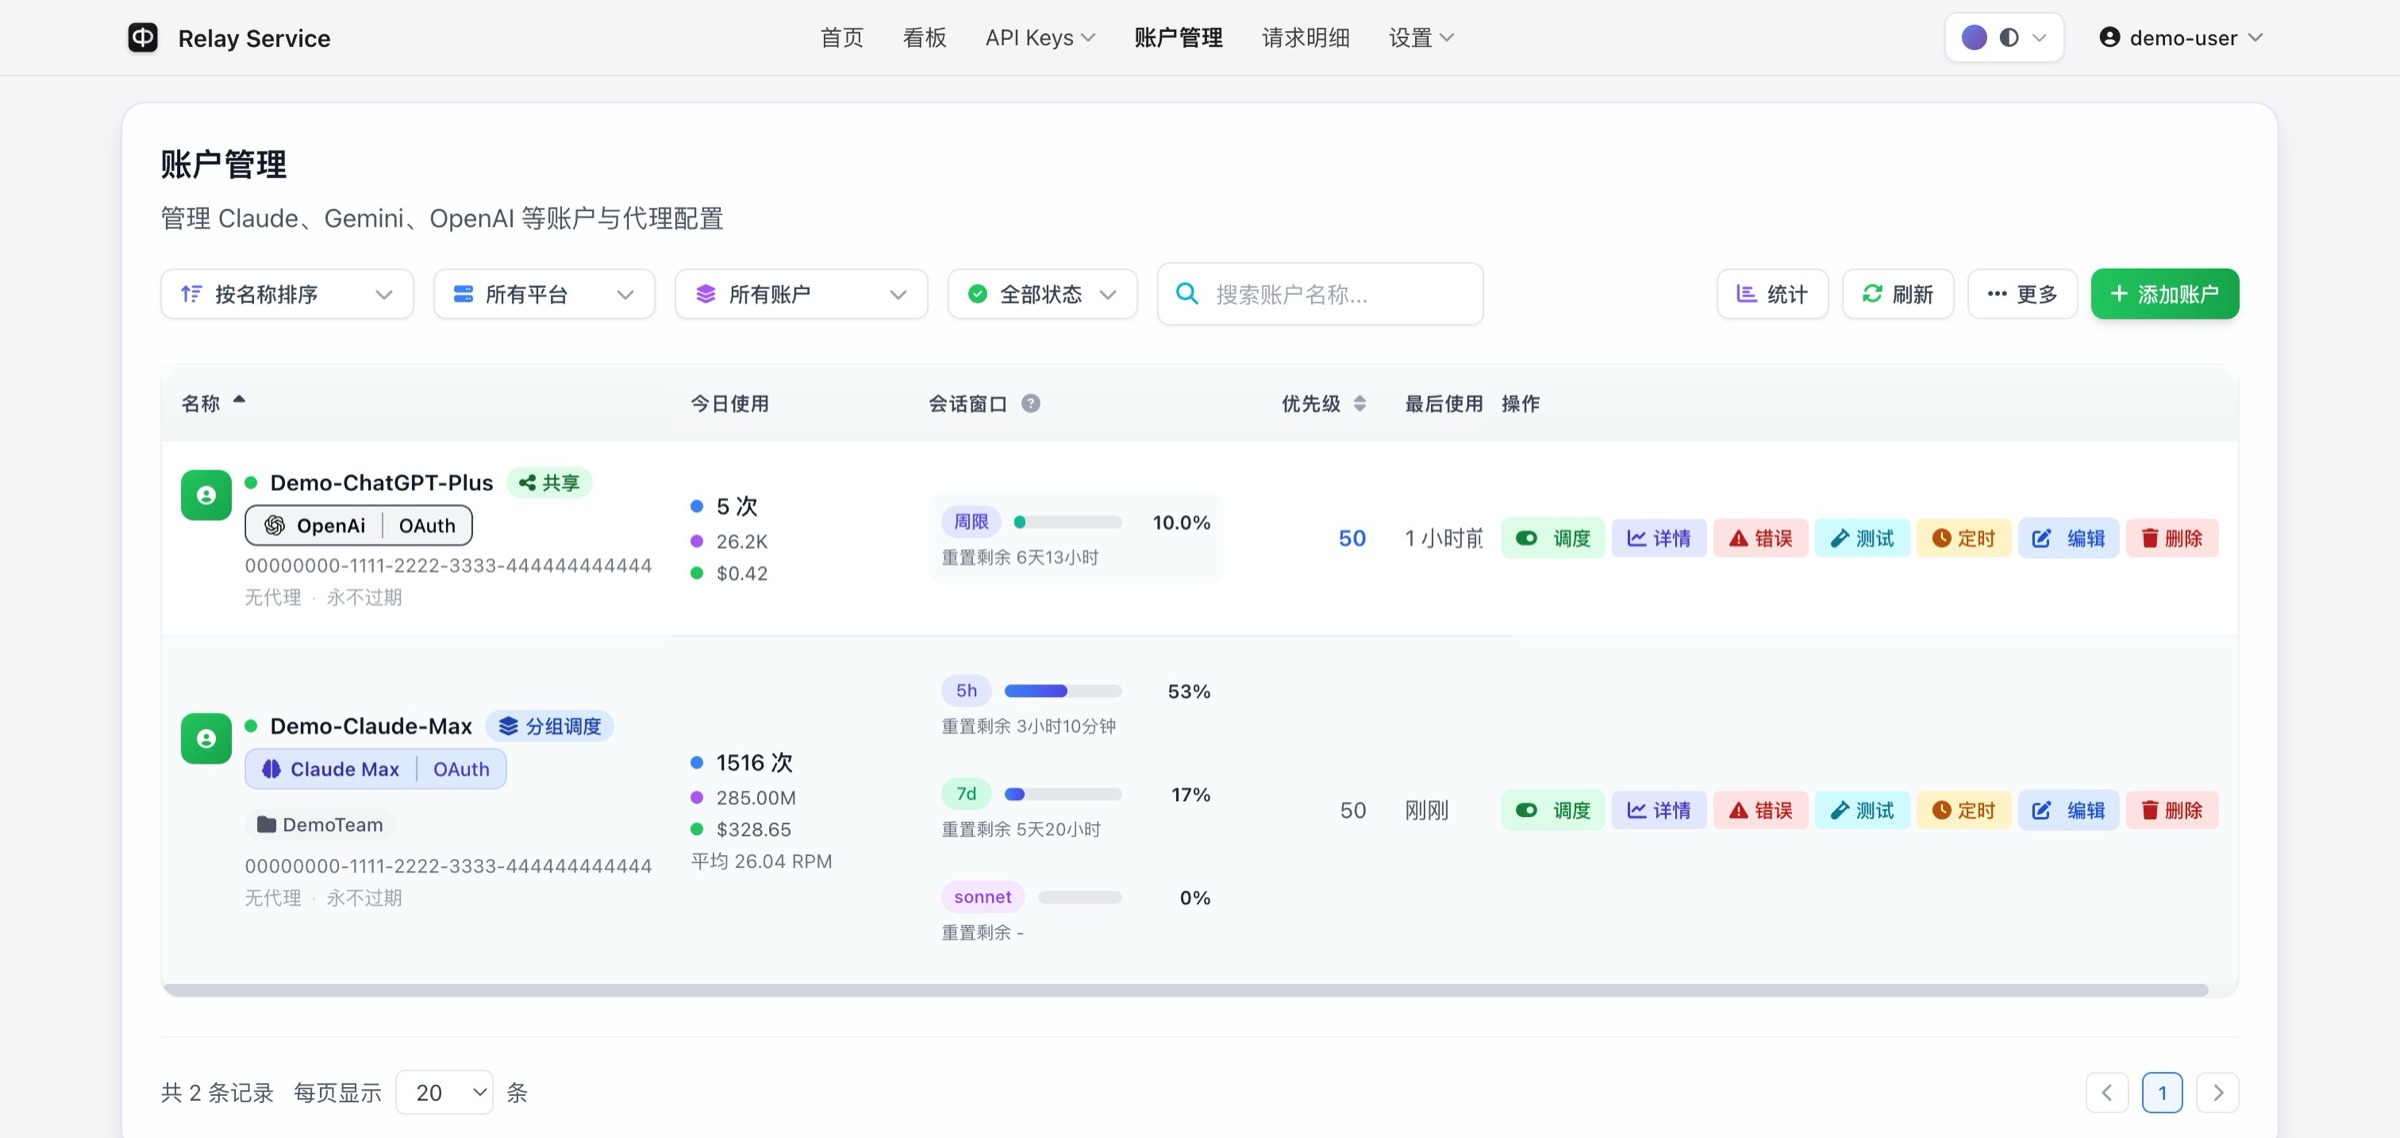
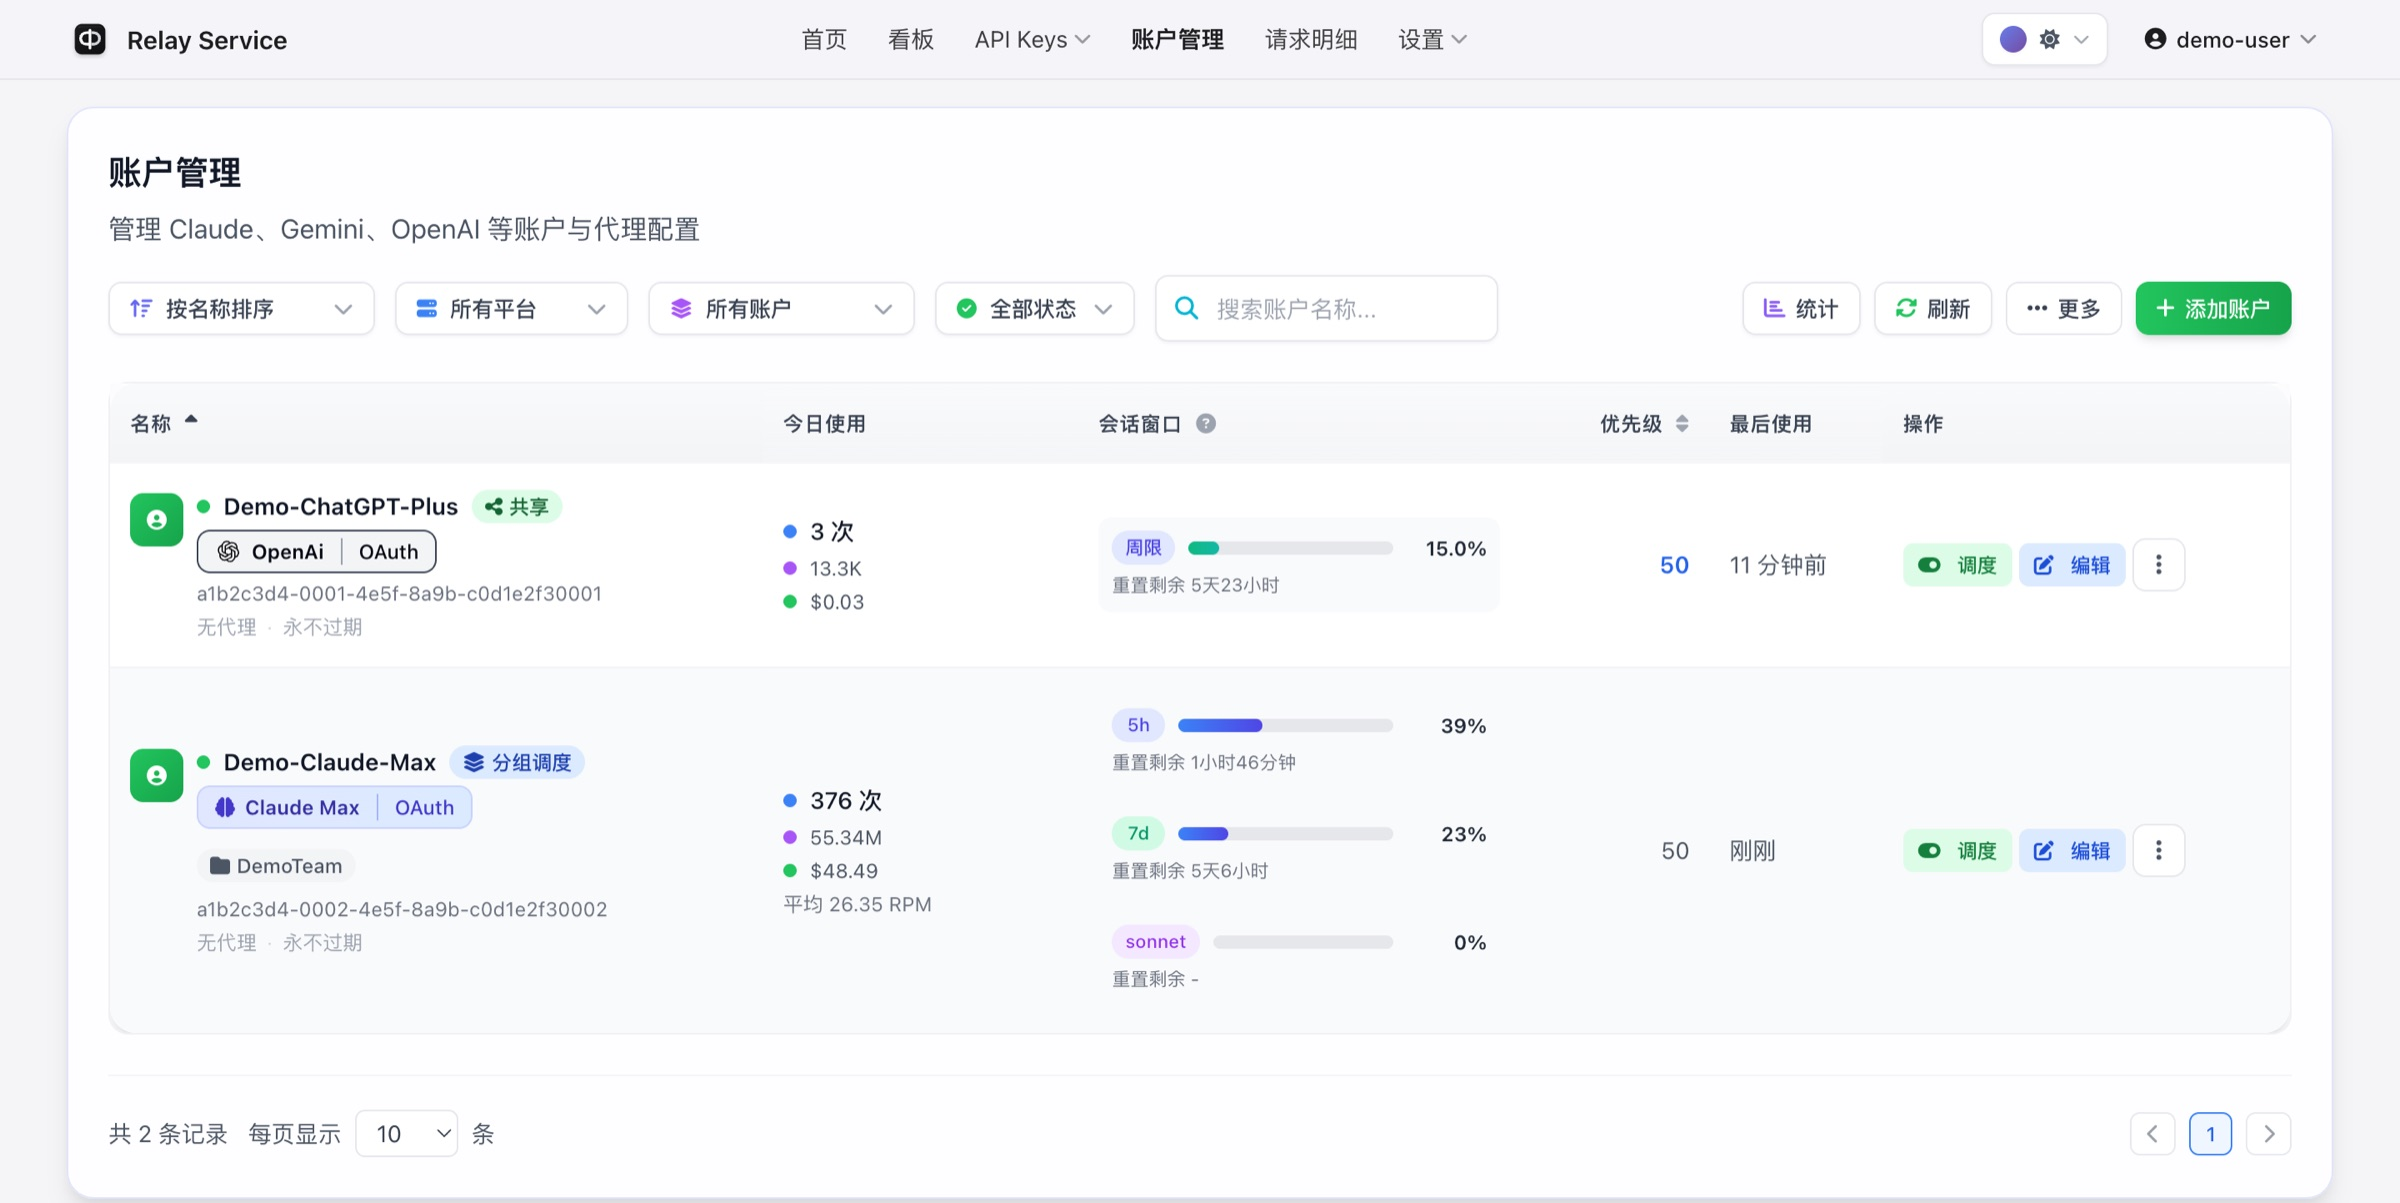
feat(landing): 标题改单行、截图改书夹式展示并重截脱敏图
- 标题「一个简易模型中转服务」→「一个简单的模型网关」，单行无标点
  9 个汉字加 white-space:nowrap，字号下限 36px→clamp(26px,8.4vw,68px)
  （36px 定值 × 9 字 ≈ 324px，窄屏会顶破 nowrap）
- 截图区改为书夹样式：纸套 holder + 金属夹 clip + 夹口 pocket
  静止时 ±1.6° 交替倾斜，悬停扯正 + 上提 30px + 放大 1.075（0.85s 回弹）
  入场动画占 .showcase__shot 的 transform，倾斜占 .showcase__frame，
  两者必须分层，否则 .pop--in{transform:none} 会清掉倾斜
- 截图展示宽度 ~600px → ~735px：列宽 1.35fr→1.9fr，
  并用负 margin 撑出父级 section.features 的 max-width:1100px 限制
- 三张截图重截并脱敏，改为 1440px 视口（低于 Tailwind 2xl=1536 断点），
  操作列呈 ⋮ 收起态，与真实使用形态一致
- 修复脱敏 UUID 塌缩：原先所有 UUID 替换为同一常量，
  导致两个账户显示相同 UUID（现实不可能）；改为一一映射
- 移除写死的 aspect-ratio:3024/1434，改由各图 width/height 属性决定
  （三张比例不同：2400x1666 / 2400x933 / 2400x1203，写死会变形）
- 交错行同时镜像 grid-template-columns，否则图会被挤进窄列
- 窄屏(≤900)取消倾斜与大幅抽出；prefers-reduced-motion 全关；补暗色适配

diff --git a/web/admin-spa/src/views/LandingView.vue b/web/admin-spa/src/views/LandingView.vue
@@ -7,7 +7,7 @@
     <section id="top" class="hero">
       <div class="hero__inner reveal">
         <p class="hero__eyebrow">Relay Service</p>
-        <h1 class="hero__title">一个简易模型中转服务</h1>
+        <h1 class="hero__title">一个简单的模型网关</h1>
         <p class="hero__sub">
           统一调度 Claude、Gemini、OpenAI、Bedrock、Azure 与更多平台。<br />
           为个人打造的全方面、可观测的 AI API 中转。
@@ -303,21 +303,28 @@
             <li v-for="p in s.points" :key="p">{{ p }}</li>
           </ul>
         </div>
-        <figure class="showcase__frame pop pop--late">
-          <div class="showcase__bar">
-            <span class="showcase__dot showcase__dot--r" />
-            <span class="showcase__dot showcase__dot--y" />
-            <span class="showcase__dot showcase__dot--g" />
-            <span class="showcase__crumb">{{ s.label }}</span>
+        <figure class="showcase__shot pop pop--late" tabindex="0">
+          <div class="showcase__holder">
+            <span aria-hidden="true" class="showcase__clip" />
+            <div class="showcase__frame">
+              <div class="showcase__bar">
+                <span class="showcase__dot showcase__dot--r" />
+                <span class="showcase__dot showcase__dot--y" />
+                <span class="showcase__dot showcase__dot--g" />
+                <span class="showcase__crumb">{{ s.label }}</span>
+              </div>
+              <img
+                :alt="s.alt"
+                class="showcase__img"
+                decoding="async"
+                :height="s.h"
+                loading="lazy"
+                :src="s.src"
+                :width="s.w"
+              />
+            </div>
+            <span aria-hidden="true" class="showcase__pocket" />
           </div>
-          <img
-            :alt="s.alt"
-            class="showcase__img"
-            decoding="async"
-            height="1434"
-            :src="s.src"
-            width="3024"
-          />
         </figure>
       </div>
 
@@ -365,6 +372,8 @@ const shots = [
     title: '毫秒级使用统计',
     label: '看板',
     src: 'screenshots/dashboard.jpg',
+    w: 2400,
+    h: 1666,
     alt: 'Relay Service 看板：请求量、Token 用量、实时吞吐与模型分布',
     desc: '流式响应中实时捕获 Token 使用与成本，仪表盘秒级刷新。',
     points: [
@@ -379,6 +388,8 @@ const shots = [
     title: '每把 Key 都算得清',
     label: 'API Keys',
     src: 'screenshots/api-keys.jpg',
+    w: 2400,
+    h: 933,
     alt: 'Relay Service API Key 管理：费用、Token、请求数与最后使用时间',
     desc: '给每个人发独立 Key，费用、用量与最后使用时间逐条入账。',
     points: [
@@ -393,6 +404,8 @@ const shots = [
     title: '多平台账户统一编排',
     label: '账户管理',
     src: 'screenshots/accounts.jpg',
+    w: 2400,
+    h: 1203,
     alt: 'Relay Service 账户管理：多平台账户、会话窗口与调度优先级',
     desc: 'Claude、Gemini、OpenAI 等账户集中管理，会话窗口一目了然。',
     points: ['多平台账户与分组调度', '会话窗口剩余量实时可见', '优先级与代理逐账户配置']
@@ -487,7 +500,10 @@ onBeforeUnmount(() => {
   margin-bottom: 8px;
 }
 .hero__title {
-  font-size: clamp(36px, 5.2vw, 68px);
+  /* 单行 9 个汉字：nowrap 兜底；下限改成随视口缩放，
+     原 36px 定值 x 9 字 ≈ 324px，在窄屏会顶破 nowrap */
+  white-space: nowrap;
+  font-size: clamp(26px, 8.4vw, 68px);
   line-height: 1.1;
   font-weight: 700;
   letter-spacing: -0.035em;
@@ -913,16 +929,29 @@ onBeforeUnmount(() => {
 
 /* ---------- Showcase：截图跟随功能 ---------- */
 .showcase {
-  max-width: 1180px;
-  margin: 96px auto 0;
+  position: relative;
+  /* 本区块在 section.features 内，父级 max-width:1100px。
+     feat 卡片依赖那个宽度不能动，故用负 margin 撑出父容器，
+     再用自己的 max-width 收口，让截图拿到更大展示宽度。 */
+  max-width: 1280px;
+  width: calc(100vw - 44px);
+  margin: 104px calc((1100px - 100vw + 44px) / 2) 0;
   padding: 0 22px;
   display: grid;
-  grid-template-columns: minmax(280px, 1fr) minmax(0, 1.35fr);
+  grid-template-columns: minmax(260px, 1fr) minmax(0, 1.9fr);
   align-items: center;
-  gap: 56px;
+  gap: 52px;
+}
+/* 交错行列宽不对称（窄 | 宽），只给文字 order:2 会把图挤进窄列，
+   必须同时把列宽镜像翻转，图才始终占宽列 */
+.showcase--alt {
+  grid-template-columns: minmax(0, 1.9fr) minmax(260px, 1fr);
 }
 .showcase--alt .showcase__text {
   order: 2;
+}
+.showcase:hover {
+  z-index: 6;
 }
 .showcase__tag {
   display: inline-block;
@@ -968,13 +997,125 @@ onBeforeUnmount(() => {
   border-radius: 50%;
   background: #0071e3;
 }
-.showcase__frame {
+/* ---------- 书夹：holder(纸套) + clip(金属夹) + pocket(夹口) ----------
+   分层原则：入场动画 .pop 占用 .showcase__shot 的 transform；
+   倾斜与悬停占用 .showcase__frame 的 transform。两者必须在不同元素上，
+   否则 .pop--in{transform:none} 会把倾斜一并清掉。 */
+.showcase__shot {
+  position: relative;
   margin: 0;
-  border-radius: 16px;
+  outline: none;
+}
+.showcase__shot:focus-visible {
+  outline: 2px solid #0071e3;
+  outline-offset: 6px;
+  border-radius: 24px;
+}
+.showcase__holder {
+  position: relative;
+  padding: 26px 18px 30px;
+  border-radius: 20px;
+  background: linear-gradient(168deg, #fdfdfe 0%, #f6f7f9 58%, #f1f2f6 100%);
+  border: 1px solid rgba(0, 0, 0, 0.055);
+  box-shadow:
+    inset 0 1px 0 rgba(255, 255, 255, 0.9),
+    0 1px 2px rgba(0, 0, 0, 0.03),
+    0 22px 48px -34px rgba(0, 0, 0, 0.32);
+}
+.showcase__clip {
+  position: absolute;
+  top: -11px;
+  left: 50%;
+  margin-left: -58px;
+  width: 116px;
+  height: 22px;
+  z-index: 4;
+  border-radius: 6px;
+  background: linear-gradient(#fcfcfd 0%, #e4e7ec 44%, #c8ccd6 56%, #e9ebf0 100%);
+  box-shadow:
+    0 0 0 1px rgba(0, 0, 0, 0.1),
+    inset 0 1px 0 rgba(255, 255, 255, 0.95),
+    inset 0 -1px 0 rgba(0, 0, 0, 0.06),
+    0 6px 14px -5px rgba(0, 0, 0, 0.34);
+  transition:
+    transform 0.32s cubic-bezier(0.16, 1, 0.3, 1),
+    box-shadow 0.32s cubic-bezier(0.16, 1, 0.3, 1);
+}
+/* 中缝：1px 暗线 + 下方 1px 亮线，制造金属折边错觉 */
+.showcase__clip::before {
+  content: '';
+  position: absolute;
+  left: 11px;
+  right: 11px;
+  top: 10px;
+  height: 1px;
+  background: rgba(0, 0, 0, 0.13);
+  box-shadow: 0 1px 0 rgba(255, 255, 255, 0.8);
+}
+/* 夹下沿投影，让夹像「压在纸上」而非贴上去 */
+.showcase__clip::after {
+  content: '';
+  position: absolute;
+  left: 5px;
+  right: 5px;
+  bottom: -6px;
+  height: 6px;
+  border-radius: 50%;
+  background: rgba(0, 0, 0, 0.13);
+  filter: blur(3.5px);
+}
+/* 夹口：z-index 高于截图，才看得出「插在里面」 */
+.showcase__pocket {
+  position: absolute;
+  left: 0;
+  right: 0;
+  bottom: 0;
+  height: 34px;
+  z-index: 3;
+  border-radius: 0 0 20px 20px;
+  pointer-events: none;
+  background: linear-gradient(#f4f5f8, #e8eaf0);
+  border-top: 1px solid rgba(0, 0, 0, 0.05);
+  box-shadow:
+    inset 0 1px 0 rgba(255, 255, 255, 0.85),
+    inset 0 6px 10px -8px rgba(0, 0, 0, 0.16);
+}
+/* 阴影拆「近接触影 + 远漫射影」两层，比单层大模糊干净 */
+.showcase__frame {
+  position: relative;
+  z-index: 2;
+  margin: 0;
+  border-radius: 12px;
   overflow: hidden;
   background: #fff;
-  border: 1px solid rgba(0, 0, 0, 0.08);
-  box-shadow: 0 30px 60px -25px rgba(0, 0, 0, 0.3);
+  border: 1px solid rgba(0, 0, 0, 0.07);
+  box-shadow:
+    0 2px 4px -2px rgba(0, 0, 0, 0.1),
+    0 20px 40px -24px rgba(0, 0, 0, 0.3);
+  transform: rotate(-1.6deg);
+  transition:
+    transform 0.85s cubic-bezier(0.34, 1.56, 0.64, 1),
+    box-shadow 0.85s cubic-bezier(0.16, 1, 0.3, 1);
+}
+.showcase--alt .showcase__frame {
+  transform: rotate(1.6deg);
+}
+/* 悬停：扯正 + 上提（从夹口抽出）+ 放大 */
+.showcase__shot:hover .showcase__frame,
+.showcase__shot:focus-within .showcase__frame {
+  transform: rotate(0deg) translateY(-30px) scale(1.075);
+  box-shadow:
+    0 4px 8px -4px rgba(0, 0, 0, 0.12),
+    0 48px 88px -32px rgba(0, 0, 0, 0.42);
+}
+.showcase__shot:hover .showcase__clip,
+.showcase__shot:focus-within .showcase__clip {
+  transform: translateY(-2px);
+  box-shadow:
+    0 0 0 1px rgba(0, 0, 0, 0.08),
+    inset 0 1px 0 rgba(255, 255, 255, 0.95),
+    inset 0 -1px 0 rgba(0, 0, 0, 0.05),
+    0 7px 14px -5px rgba(0, 0, 0, 0.32);
 }
 .showcase__bar {
   display: flex;
@@ -1005,11 +1146,12 @@ onBeforeUnmount(() => {
   font-size: 12px;
   color: #6e6e73;
 }
+/* 三张截图高度各异，写死 aspect-ratio 会变形；
+   改由 img 的 width/height 属性各自决定比例 */
 .showcase__img {
   display: block;
   width: 100%;
   height: auto;
-  aspect-ratio: 3024 / 1434;
   background: #f5f5f7;
 }
 .showcase__note {
@@ -1042,10 +1184,18 @@ onBeforeUnmount(() => {
     transform: none;
     transition: none;
   }
+  .showcase__frame,
+  .showcase--alt .showcase__frame,
+  .showcase__shot:hover .showcase__frame,
+  .showcase__shot:focus-within .showcase__frame {
+    transform: none !important;
+    transition: none !important;
+  }
 }
 
 @media (max-width: 900px) {
-  .showcase {
+  .showcase,
+  .showcase--alt {
     grid-template-columns: 1fr;
     gap: 28px;
     margin-top: 68px;
@@ -1056,6 +1206,29 @@ onBeforeUnmount(() => {
   .showcase__desc {
     font-size: 16px;
   }
+  /* 窄屏取消倾斜与大幅抽出：触控无 hover，且防横向出界 */
+  .showcase__frame,
+  .showcase--alt .showcase__frame {
+    transform: none;
+  }
+  .showcase__shot:hover .showcase__frame,
+  .showcase__shot:focus-within .showcase__frame {
+    transform: translateY(-10px) scale(1.02);
+  }
+  .showcase__holder {
+    padding: 20px 12px 24px;
+    border-radius: 16px;
+  }
+  .showcase__pocket {
+    height: 26px;
+    border-radius: 0 0 16px 16px;
+  }
+  .showcase__clip {
+    width: 84px;
+    margin-left: -42px;
+    height: 12px;
+    top: -6px;
+  }
 }
 
 .dark .showcase__points li {
@@ -1064,6 +1237,31 @@ onBeforeUnmount(() => {
 .dark .showcase__frame {
   background: #1c1c1e;
   border-color: rgba(255, 255, 255, 0.1);
+}
+.dark .showcase__holder {
+  background: linear-gradient(168deg, #242426 0%, #1f1f21 58%, #1a1a1c 100%);
+  border-color: rgba(255, 255, 255, 0.08);
+  box-shadow:
+    inset 0 1px 0 rgba(255, 255, 255, 0.05),
+    0 22px 48px -34px rgba(0, 0, 0, 0.7);
+}
+.dark .showcase__clip {
+  background: linear-gradient(#4a4a4f 0%, #35353a 44%, #2a2a2e 56%, #3d3d42 100%);
+  box-shadow:
+    0 0 0 1px rgba(255, 255, 255, 0.08),
+    inset 0 1px 0 rgba(255, 255, 255, 0.12),
+    0 6px 14px -5px rgba(0, 0, 0, 0.6);
+}
+.dark .showcase__clip::before {
+  background: rgba(0, 0, 0, 0.4);
+  box-shadow: 0 1px 0 rgba(255, 255, 255, 0.08);
+}
+.dark .showcase__pocket {
+  background: linear-gradient(#2a2a2e, #202024);
+  border-top-color: rgba(255, 255, 255, 0.06);
+  box-shadow:
+    inset 0 1px 0 rgba(255, 255, 255, 0.05),
+    inset 0 6px 10px -8px rgba(0, 0, 0, 0.5);
 }
 .dark .showcase__bar {
   background: #2c2c2e;
